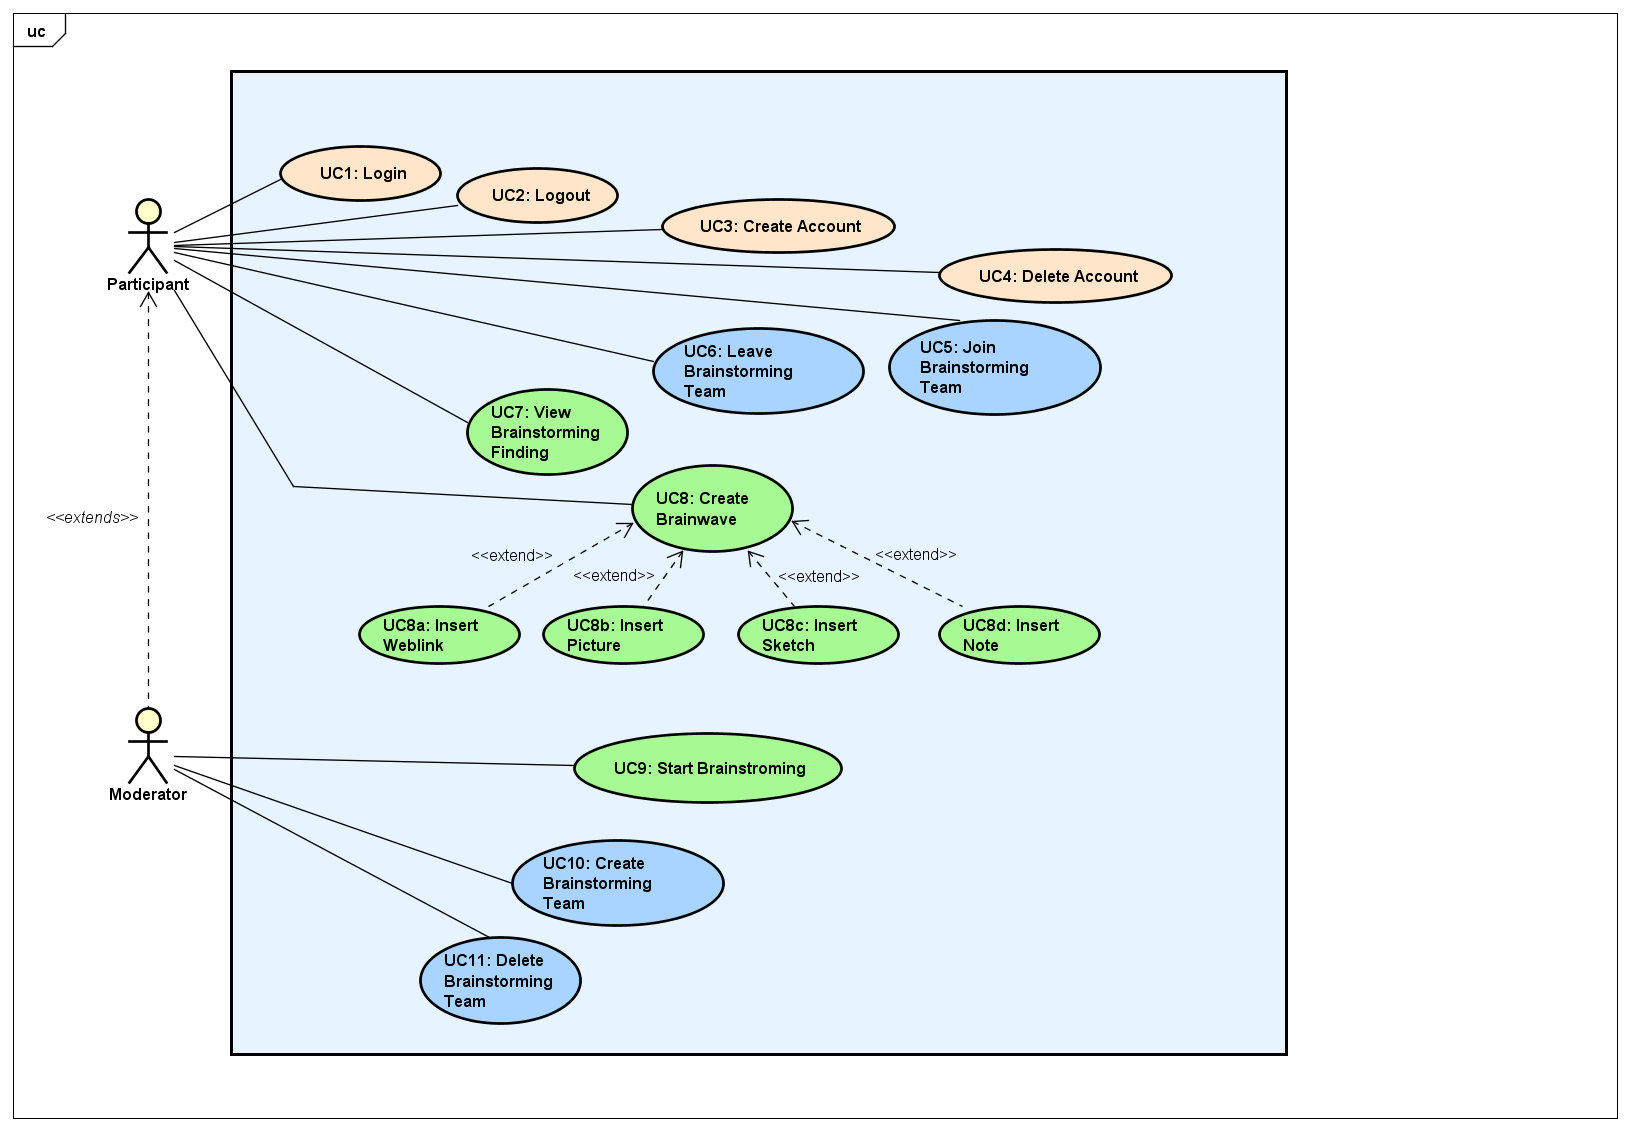
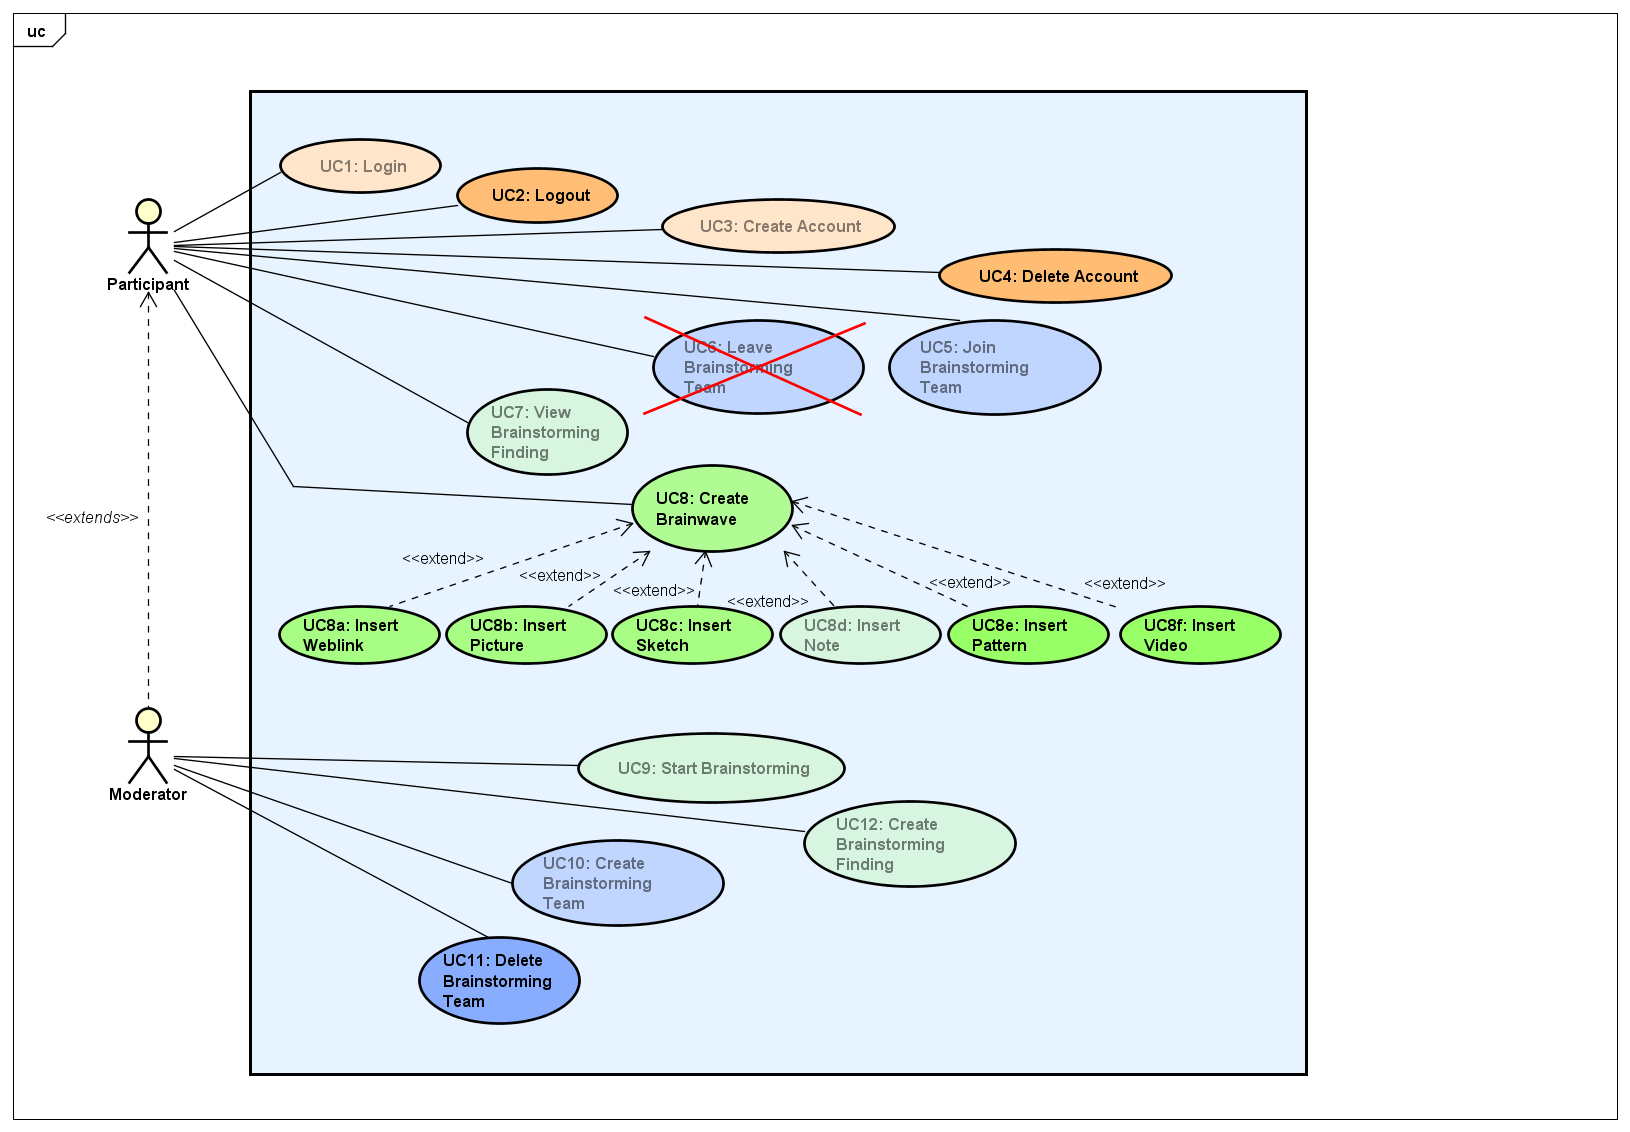
Update uc + add todos

diff --git a/tex/techn_bericht/anforderungen/anforderungen.tex b/tex/techn_bericht/anforderungen/anforderungen.tex
@@ -1,7 +1,13 @@
 \subsection{Anforderungsspezifikation}
 
 \subsubsection{Funktionale Anforderungen}
-
+\begin{figure}
+	\centering
+	\includegraphics[width=0.7\linewidth]{./img/anforderungen/UC-Methode635.png}
+	\caption{Use-Case Diagramm Methode 635}
+	\label{fig:uc-methode635}
+\end{figure}
+%TODO: Hellfarbene UC erklären dass neu, schwachfarbene erklären, UC12 sagen dass mapping pro team 1 finding nicht mehr gültig ist, leave team unnötig, neue insert ideas (Pattern, Video)
 \paragraph{Brief Use-Cases}
 
 
